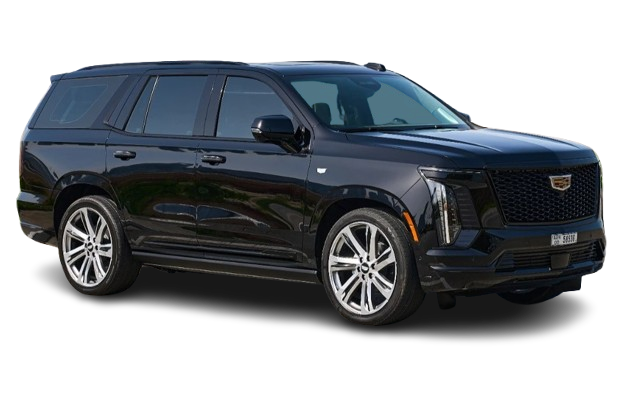
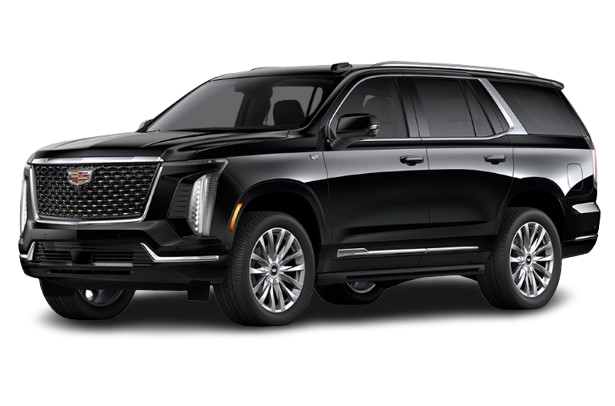
latest

diff --git a/src/app/fleet/page.tsx b/src/app/fleet/page.tsx
@@ -31,23 +31,54 @@ export default function FleetPage() {
       <TopNav />
       <Navbar />
 
-      <section className="pt-[130px] md:pt-[145px]">
-        <div className="max-w-[1300px] mx-auto px-6 sm:px-8 md:px-12 py-12 sm:py-16 md:py-20">
-          <div className="text-center mb-14 sm:mb-16">
-            <div className="inline-flex items-center gap-2.5 px-6 py-3 rounded-full bg-white border border-[#C9A063]/30 shadow-lg shadow-[#C9A063]/10 mb-6">
-              <div className="w-2 h-2 rounded-full bg-gradient-to-r from-[#C9A063] to-[#B8935A] animate-pulse" />
-              <span className="text-gray-800 text-[13px] sm:text-[14px] font-bold tracking-[0.2em] uppercase">
-                Our Fleet
-              </span>
-            </div>
-            <h1 className="text-3xl sm:text-4xl md:text-5xl font-bold text-gray-900 tracking-tight mb-4">
-              Curated Luxury Vehicles
-            </h1>
-            <p className="text-gray-600 text-[15px] sm:text-[17px] max-w-2xl mx-auto leading-relaxed font-light">
-              From executive sedans to premium SUVs and vans—each vehicle is maintained to the
-              highest standards and ready to elevate your journey.
-            </p>
+      {/* Hero Section */}
+      <section className="relative pt-[160px] md:pt-[180px] pb-8 sm:pb-12 md:pb-16 bg-gradient-to-br from-gray-900 via-gray-800 to-black overflow-hidden">
+        {/* Background Pattern */}
+        <div className="absolute inset-0 bg-[radial-gradient(circle_at_50%_50%,rgba(201,160,99,0.1)_0%,transparent_50%)]" />
+        <div className="absolute inset-0 bg-[linear-gradient(45deg,transparent_25%,rgba(255,255,255,0.02)_25%,rgba(255,255,255,0.02)_50%,transparent_50%,transparent_75%,rgba(255,255,255,0.02)_75%)] bg-[length:60px_60px]" />
+        
+        <div className="relative max-w-7xl mx-auto px-6 sm:px-8 md:px-12 text-center">
+          {/* Badge */}
+          <div className="inline-flex items-center gap-2.5 px-6 py-3 rounded-full bg-white/10 backdrop-blur-sm border border-[#C9A063]/30 shadow-lg mb-8">
+            <div className="w-2 h-2 rounded-full bg-gradient-to-r from-[#C9A063] to-[#B8935A] animate-pulse" />
+            <span className="text-[#C9A063] text-[13px] sm:text-[14px] font-bold tracking-[0.2em] uppercase">
+              Our Collection
+            </span>
           </div>
+
+          {/* Main Headlines */}
+          <h1 className="text-2xl sm:text-3xl md:text-4xl lg:text-5xl font-bold text-white tracking-tight mb-6">
+            Curated Luxury Vehicles
+          </h1>
+
+          {/* Description */}
+          <p className="text-gray-300 text-sm sm:text-base md:text-lg max-w-4xl mx-auto leading-relaxed font-light mb-10">
+            From executive sedans to premium SUVs and vans—each vehicle is maintained to the
+            highest standards and ready to elevate your journey.
+          </p>
+
+
+          {/* CTA Buttons */}
+          <div className="flex flex-wrap items-center justify-center gap-4 sm:gap-6">
+            <Link
+              href="/reservation"
+              className="group inline-flex items-center justify-center gap-3 px-8 sm:px-10 py-4 sm:py-5 rounded-full bg-gradient-to-r from-[#C9A063] to-[#B8935A] text-white font-semibold text-base sm:text-lg shadow-lg shadow-[#C9A063]/30 hover:shadow-xl hover:shadow-[#C9A063]/40 hover:scale-105 active:scale-95 transition-all duration-300"
+            >
+              Reserve Your Ride
+              <ArrowRight className="w-5 h-5 group-hover:translate-x-1 transition-transform duration-300" strokeWidth={2.5} />
+            </Link>
+          </div>
+        </div>
+
+        {/* Decorative Elements */}
+        <div className="absolute top-1/4 left-10 w-2 h-2 bg-[#C9A063] rounded-full animate-pulse opacity-60" />
+        <div className="absolute top-1/3 right-16 w-1 h-1 bg-white rounded-full animate-pulse delay-300" />
+        <div className="absolute bottom-1/4 left-1/4 w-1.5 h-1.5 bg-[#C9A063] rounded-full animate-pulse delay-700" />
+      </section>
+
+      {/* Fleet Gallery Section */}
+      <section id="fleet-gallery" className="py-16 sm:py-20 md:py-24 bg-gradient-to-b from-gray-50 to-white">
+        <div className="max-w-[1300px] mx-auto px-6 sm:px-8 md:px-12">
 
           <div className="grid grid-cols-1 sm:grid-cols-2 lg:grid-cols-3 gap-6 sm:gap-8">
             {fleetData.map((vehicle) => (

diff --git a/src/app/services/page.tsx b/src/app/services/page.tsx
@@ -59,30 +59,53 @@ export default function ServicesIndexPage() {
       <TopNav />
       <Navbar />
 
-      {/* Hero */}
-      <section className="pt-[155px] md:pt-[175px] relative overflow-hidden">
-        <div className="absolute inset-0 bg-gradient-to-b from-white/80 via-transparent to-transparent" />
-        <div className="max-w-[1000px] mx-auto px-6 sm:px-8 md:px-12 py-16 sm:py-20 md:py-24 relative z-10">
-          <div className="text-center">
-            <p className="text-[#C9A063] text-[12px] sm:text-[13px] font-semibold tracking-[0.2em] uppercase mb-3">
-              What we offer
-            </p>
-            <h1 className="text-3xl sm:text-4xl md:text-5xl font-bold text-gray-900 tracking-tight mb-4">
-              Our Services
-            </h1>
-            <p className="text-gray-600 text-[15px] sm:text-[16px] max-w-xl mx-auto leading-relaxed">
-              From airport transfers to corporate travel, weddings, and VIP transport—every journey is crafted with elegance and reliability.
-            </p>
+      {/* Hero Section */}
+      <section className="relative pt-[160px] md:pt-[180px] pb-8 sm:pb-12 md:pb-16 bg-gradient-to-br from-gray-900 via-gray-800 to-black overflow-hidden">
+        {/* Background Pattern */}
+        <div className="absolute inset-0 bg-[radial-gradient(circle_at_50%_50%,rgba(201,160,99,0.1)_0%,transparent_50%)]" />
+        <div className="absolute inset-0 bg-[linear-gradient(45deg,transparent_25%,rgba(255,255,255,0.02)_25%,rgba(255,255,255,0.02)_50%,transparent_50%,transparent_75%,rgba(255,255,255,0.02)_75%)] bg-[length:60px_60px]" />
+        
+        <div className="relative max-w-7xl mx-auto px-6 sm:px-8 md:px-12 text-center">
+          {/* Badge */}
+          <div className="inline-flex items-center gap-2.5 px-6 py-3 rounded-full bg-white/10 backdrop-blur-sm border border-[#C9A063]/30 shadow-lg mb-8">
+            <div className="w-2 h-2 rounded-full bg-gradient-to-r from-[#C9A063] to-[#B8935A] animate-pulse" />
+            <span className="text-[#C9A063] text-[13px] sm:text-[14px] font-bold tracking-[0.2em] uppercase">
+              What We Offer
+            </span>
+          </div>
+
+          {/* Main Headlines */}
+          <h1 className="text-2xl sm:text-3xl md:text-4xl lg:text-5xl font-bold text-white tracking-tight mb-6">
+            Our Services
+          </h1>
+
+          {/* Description */}
+          <p className="text-gray-300 text-sm sm:text-base md:text-lg max-w-4xl mx-auto leading-relaxed font-light mb-10">
+            From airport transfers to corporate travel, weddings, and VIP transport—
+            every journey is crafted with elegance and reliability.
+          </p>
+
+          {/* CTA Buttons */}
+          <div className="flex flex-wrap items-center justify-center gap-4 sm:gap-6">
+            <Link
+              href="/reservation"
+              className="group inline-flex items-center justify-center gap-3 px-8 sm:px-10 py-4 sm:py-5 rounded-full bg-gradient-to-r from-[#C9A063] to-[#B8935A] text-white font-semibold text-base sm:text-lg shadow-lg shadow-[#C9A063]/30 hover:shadow-xl hover:shadow-[#C9A063]/40 hover:scale-105 active:scale-95 transition-all duration-300"
+            >
+              Reserve Your Ride
+              <ArrowRight className="w-5 h-5 group-hover:translate-x-1 transition-transform duration-300" strokeWidth={2.5} />
+            </Link>
           </div>
         </div>
+
+        {/* Decorative Elements */}
+        <div className="absolute top-1/4 left-10 w-2 h-2 bg-[#C9A063] rounded-full animate-pulse opacity-60" />
+        <div className="absolute top-1/3 right-16 w-1 h-1 bg-white rounded-full animate-pulse delay-300" />
+        <div className="absolute bottom-1/4 left-1/4 w-1.5 h-1.5 bg-[#C9A063] rounded-full animate-pulse delay-700" />
       </section>
 
       {/* Services grid */}
-      <section className="relative pb-16 sm:pb-20 md:pb-24">
+      <section className="relative pt-16 sm:pt-20 md:pt-24 pb-16 sm:pb-20 md:pb-24">
         <div className="max-w-[1100px] mx-auto px-6 sm:px-8 md:px-12">
-          <p className="text-center text-gray-500 text-[14px] sm:text-[15px] mb-12 max-w-lg mx-auto">
-            Select a service to view full details, features, and how to book.
-          </p>
           <div className="grid grid-cols-1 sm:grid-cols-2 lg:grid-cols-3 gap-5 sm:gap-6">
             {visibleServices.map((service) => {
               const Icon = iconMap[service.icon];

diff --git a/src/components/GlobalFootprint.tsx b/src/components/GlobalFootprint.tsx
@@ -6,14 +6,14 @@ import { Wifi, MapPin } from "lucide-react";
 const GlobalFootprint = () => {
   // Spread-out points with city names (akhatay removed – only these on map)
   const cities = [
-    { name: "Toronto Pearson", left: "80%", top: "26%" },
-    { name: "Hamilton", left: "68%", top: "26%" },
     { name: "London", left: "21%", top: "51%" },
-    { name: "Ottawa", left: "62%", top: "48%" },
+    { name: "Hamilton", left: "58%", top: "44%" },
+    { name: "Greater Toronto Area", left: "62%", top: "48%" },
+    { name: "Toronto Pearson", left: "68%", top: "26%" },
+    { name: "Niagara/Buffalo", left: "74%", top: "58%" },
+    { name: "Ottawa", left: "75%", top: "65%" },
+    { name: "Ottawa/Montreal", left: "80%", top: "26%" },
     { name: "Montreal", left: "86%", top: "68%" },
-    { name: "Niagara/Buffalo", left: "75%", top: "65%" },
-    { name: "Ottawa/Montreal", left: "58%", top: "44%" },
-    { name: "Greater Toronto Area", left: "74%", top: "58%" },
   ];
 
   return (
@@ -161,25 +161,25 @@ const GlobalFootprint = () => {
               </filter>
             </defs>
             {/* Lines connecting spread-out city points */}
-            <line x1="80%" y1="26%" x2="68%" y2="26%" stroke="url(#lineGradient)" strokeWidth="2.5" filter="url(#glow)" strokeDasharray="5,5">
+            <line x1="21%" y1="51%" x2="58%" y2="44%" stroke="url(#lineGradient)" strokeWidth="2.5" filter="url(#glow)" strokeDasharray="5,5">
               <animate attributeName="stroke-dashoffset" from="0" to="10" dur="1s" repeatCount="indefinite"/>
             </line>
-            <line x1="68%" y1="26%" x2="62%" y2="48%" stroke="url(#lineGradient)" strokeWidth="2.5" filter="url(#glow)" strokeDasharray="5,5">
+            <line x1="58%" y1="44%" x2="62%" y2="48%" stroke="url(#lineGradient)" strokeWidth="2.5" filter="url(#glow)" strokeDasharray="5,5">
               <animate attributeName="stroke-dashoffset" from="0" to="10" dur="1s" repeatCount="indefinite"/>
             </line>
-            <line x1="62%" y1="48%" x2="21%" y2="51%" stroke="url(#lineGradient)" strokeWidth="2.5" filter="url(#glow)" strokeDasharray="5,5">
+            <line x1="62%" y1="48%" x2="68%" y2="26%" stroke="url(#lineGradient)" strokeWidth="2.5" filter="url(#glow)" strokeDasharray="5,5">
               <animate attributeName="stroke-dashoffset" from="0" to="10" dur="1s" repeatCount="indefinite"/>
             </line>
-            <line x1="21%" y1="51%" x2="74%" y2="58%" stroke="url(#lineGradient)" strokeWidth="2.5" filter="url(#glow)" strokeDasharray="5,5">
+            <line x1="68%" y1="26%" x2="74%" y2="58%" stroke="url(#lineGradient)" strokeWidth="2.5" filter="url(#glow)" strokeDasharray="5,5">
               <animate attributeName="stroke-dashoffset" from="0" to="10" dur="1s" repeatCount="indefinite"/>
             </line>
-            <line x1="62%" y1="48%" x2="75%" y2="65%" stroke="url(#lineGradient)" strokeWidth="2.5" filter="url(#glow)" strokeDasharray="5,5">
+            <line x1="74%" y1="58%" x2="75%" y2="65%" stroke="url(#lineGradient)" strokeWidth="2.5" filter="url(#glow)" strokeDasharray="5,5">
               <animate attributeName="stroke-dashoffset" from="0" to="10" dur="1s" repeatCount="indefinite"/>
             </line>
-            <line x1="75%" y1="65%" x2="86%" y2="68%" stroke="url(#lineGradient)" strokeWidth="2.5" filter="url(#glow)" strokeDasharray="5,5">
+            <line x1="75%" y1="65%" x2="80%" y2="26%" stroke="url(#lineGradient)" strokeWidth="2.5" filter="url(#glow)" strokeDasharray="5,5">
               <animate attributeName="stroke-dashoffset" from="0" to="10" dur="1s" repeatCount="indefinite"/>
             </line>
-            <line x1="80%" y1="26%" x2="62%" y2="48%" stroke="url(#lineGradient)" strokeWidth="2.5" filter="url(#glow)" strokeDasharray="5,5">
+            <line x1="80%" y1="26%" x2="86%" y2="68%" stroke="url(#lineGradient)" strokeWidth="2.5" filter="url(#glow)" strokeDasharray="5,5">
               <animate attributeName="stroke-dashoffset" from="0" to="10" dur="1s" repeatCount="indefinite"/>
             </line>
           </svg>

diff --git a/src/components/TopNav.tsx b/src/components/TopNav.tsx
@@ -19,27 +19,21 @@ const TopNav = () => {
              */}
             {/* <div className="hidden sm:block w-px h-4 bg-white/20"></div> */}
             
-            <a 
-              href="tel:[phone redacted]" 
-              className="hidden sm:flex items-center gap-2 text-white/90 hover:text-[#C9A063] transition-all duration-300 group"
-            >
+            <span className="hidden sm:flex items-center gap-2 text-white/90 group">
               {/* <div className="w-7 h-7 rounded-full bg-white/10 group-hover:bg-[#C9A063]/20 border border-white/10 group-hover:border-[#C9A063]/30 flex items-center justify-center transition-all duration-300 backdrop-blur-sm">
                 <Phone className="w-3.5 h-3.5" strokeWidth={2} />
               </div> */}
               {/* <span className="text-[25px] font-light tracking-wide">[phone redacted]</span> */}
-            </a>
+            </span>
           </div>
 
           <div className="flex items-center justify-center sm:justify-end gap-4">
             <div className="hidden sm:block w-px h-4 bg-white/20"></div>
             
-            <a 
-              href="tel:[phone redacted]" 
-              className="flex items-center gap-2 text-white/90 hover:text-[#C9A063] transition-all duration-300 group"
-            >
+            <span className="flex items-center gap-2 text-white/90 group">
               <Phone className="w-4 h-4 sm:w-3.5 sm:h-3.5 flex-shrink-0" strokeWidth={2} />
               <span className="text-[25px] sm:text-[25px] font-light tracking-wide"> 416-893-5779</span>
-            </a>
+            </span>
 
 
             {/* <div className="flex items-center gap-2">

diff --git a/src/app/track/[id]/page.tsx b/src/app/track/[id]/page.tsx
@@ -156,10 +156,10 @@ export default function TrackPage() {
                   </div>
                   <div className="flex-1 min-w-0">
                     <p className="text-white font-semibold">{booking.chauffeurName}</p>
-                    <a href={`tel:${booking.chauffeurPhone}`} className="text-[#C9A063] text-sm hover:underline flex items-center gap-1.5 mt-0.5">
+                    <span className="text-[#C9A063] text-sm flex items-center gap-1.5 mt-0.5">
                       <Phone className="w-3 h-3" />
                       {booking.chauffeurPhone}
-                    </a>
+                    </span>
                     <div className="flex flex-wrap items-center gap-2 sm:gap-3 mt-1.5 text-gray-300 text-xs sm:text-sm">
                       <span className="flex items-center gap-1.5">
                         <Car className="w-3.5 h-3.5 sm:w-4 sm:h-4 text-[#C9A063]" />
@@ -267,13 +267,10 @@ export default function TrackPage() {
         {/* Contact */}
         <div className="text-center pb-8 sm:pb-10">
           <p className="text-gray-500 text-xs mb-3">Need assistance?</p>
-          <a
-            href="tel:[phone redacted]"
-            className="inline-flex items-center gap-2 px-5 py-2.5 bg-[#C9A063]/10 border border-[#C9A063]/30 rounded-full text-[#C9A063] text-sm font-medium hover:bg-[#C9A063]/20 transition-all"
-          >
+          <span className="inline-flex items-center gap-2 px-5 py-2.5 bg-[#C9A063]/10 border border-[#C9A063]/30 rounded-full text-[#C9A063] text-sm font-medium">
             <Phone className="w-4 h-4" />
             416-893-5779
-          </a>
+          </span>
           <p className="text-gray-600 text-xs mt-6">
             SARJ Worldwide Chauffeur Services
           </p>

diff --git a/src/components/FloatingContact.tsx b/src/components/FloatingContact.tsx
@@ -1,7 +1,7 @@
 "use client";
 
 import { useState } from "react";
-import { MessageCircle, Phone } from "lucide-react";
+import { MessageCircle, Phone, Mail } from "lucide-react";
 
 const PHONE_NUMBER = "4168935779";
 const PHONE_DISPLAY = "416-893-5779";
@@ -41,6 +41,13 @@ export default function FloatingContact() {
           aria-label={`Call ${PHONE_DISPLAY}`}
         >
           <Phone className="w-6 h-6" strokeWidth={2.5} />
+        </a>
+        <a
+          href="mailto:[email redacted]"
+          className="group flex items-center justify-center w-14 h-14 rounded-full bg-blue-600 text-white shadow-lg shadow-blue-600/40 hover:shadow-xl hover:shadow-blue-600/50 hover:scale-110 active:scale-95 transition-all duration-200"
+          aria-label="Send email to [email redacted]"
+        >
+          <Mail className="w-6 h-6" strokeWidth={2.5} />
         </a>
       </div>
 

diff --git a/src/components/ContactInfo.tsx b/src/components/ContactInfo.tsx
@@ -30,12 +30,9 @@ const ContactInfo = () => {
                 <h3 className="text-white text-[16px] sm:text-[18px] font-semibold mb-2 tracking-wide">
                   Phone Number
                 </h3>
-                <a 
-                  href="tel:[phone redacted]" 
-                  className="text-gray-300 text-[14px] sm:text-[15px] font-light hover:text-[#C9A063] transition-colors duration-300"
-                >
+                <span className="text-gray-300 text-[14px] sm:text-[15px] font-light">
                   416-893-5779
-                </a>
+                </span>
               </div>
             </div>
 

diff --git a/src/app/api/quote/route.ts b/src/app/api/quote/route.ts
@@ -69,7 +69,7 @@ export async function POST(request: NextRequest) {
             <tr><td style="padding:10px 0;color:#666;font-size:14px;width:140px;">Name:</td><td style="padding:10px 0;color:#1C1C1E;font-size:14px;font-weight:600;">${passengerName}</td></tr>
             <tr><td style="padding:10px 0;color:#666;font-size:14px;">Passengers:</td><td style="padding:10px 0;color:#1C1C1E;font-size:14px;font-weight:600;">${passengers}</td></tr>
             <tr><td style="padding:10px 0;color:#666;font-size:14px;">Email:</td><td style="padding:10px 0;color:#1C1C1E;font-size:14px;font-weight:600;"><a href="mailto:${email}" style="color:#C9A063;">${email}</a></td></tr>
-            <tr><td style="padding:10px 0;color:#666;font-size:14px;">Phone:</td><td style="padding:10px 0;color:#1C1C1E;font-size:14px;font-weight:600;"><a href="tel:${fullPhone}" style="color:#C9A063;">${fullPhone}</a></td></tr>
+            <tr><td style="padding:10px 0;color:#666;font-size:14px;">Phone:</td><td style="padding:10px 0;color:#1C1C1E;font-size:14px;font-weight:600;"><span style="color:#C9A063;">${fullPhone}</span></td></tr>
           </table>
         </div>
         <div style="background:#f8f9fa;border-radius:12px;padding:20px;margin-bottom:20px;">
@@ -109,13 +109,13 @@ export async function POST(request: NextRequest) {
           ${stopsUser}
           <p style="color:#666;font-size:14px;margin:5px 0;"><strong>Drop-off:</strong> ${dropoffLocation}</p>
         </div>
-        <p style="color:#444;font-size:15px;line-height:1.8;margin:20px 0;">For urgent inquiries, call us at <a href="tel:[phone redacted]" style="color:#C9A063;font-weight:600;">[phone redacted]</a>.</p>
+        <p style="color:#444;font-size:15px;line-height:1.8;margin:20px 0;">For urgent inquiries, call us at <span style="color:#C9A063;font-weight:600;">[phone redacted]</span>.</p>
         <p style="color:#444;font-size:15px;line-height:1.8;margin:20px 0 0;">Best regards,<br><strong style="color:#C9A063;">SARJ WORLDWIDE</strong><br><span style="color:#888;font-size:13px;">Luxury Chauffeur Service</span></p>
       </div>
       <div style="background:#1C1C1E;padding:25px 30px;text-align:center;">
         <p style="color:#C9A063;font-size:14px;font-weight:600;margin:0 0 10px;">SARJ WORLDWIDE</p>
         <p style="color:#888;font-size:12px;margin:0;">231 Oak Park Blvd, Oakville, ON L6H 7S8</p>
-        <p style="color:#888;font-size:12px;margin:5px 0 0;"><a href="tel:[phone redacted]" style="color:#888;">[phone redacted]</a> | <span style="color:#888;">[email redacted]</span></p>
+        <p style="color:#888;font-size:12px;margin:5px 0 0;"><span style="color:#888;">416-893-5779</span> | <span style="color:#888;">[email redacted]</span></p>
       </div>
     </div></body></html>`;
 

diff --git a/src/app/api/reservation/route.ts b/src/app/api/reservation/route.ts
@@ -166,7 +166,7 @@ export async function POST(request: NextRequest) {
             <tr><td style="padding:10px 0;color:#666;font-size:14px;">Passengers:</td><td style="padding:10px 0;color:#1C1C1E;font-size:14px;font-weight:600;">${passengers}</td></tr>
             ${childSeatCount > 0 ? `<tr><td style="padding:10px 0;color:#666;font-size:14px;">Child Seats:</td><td style="padding:10px 0;color:#1C1C1E;font-size:14px;font-weight:600;">${childSeatCount}${childSeatType ? ` (${childSeatType})` : ""}</td></tr>` : ""}
             <tr><td style="padding:10px 0;color:#666;font-size:14px;">Email:</td><td style="padding:10px 0;color:#1C1C1E;font-size:14px;font-weight:600;"><a href="mailto:${email}" style="color:#C9A063;">${email}</a></td></tr>
-            <tr><td style="padding:10px 0;color:#666;font-size:14px;">Phone:</td><td style="padding:10px 0;color:#1C1C1E;font-size:14px;font-weight:600;"><a href="tel:${fullPhone}" style="color:#C9A063;">${fullPhone}</a></td></tr>
+            <tr><td style="padding:10px 0;color:#666;font-size:14px;">Phone:</td><td style="padding:10px 0;color:#1C1C1E;font-size:14px;font-weight:600;"><span style="color:#C9A063;">${fullPhone}</span></td></tr>
           </table>
         </div>
         <div style="background:#f8f9fa;border-radius:12px;padding:20px;margin-bottom:20px;">
@@ -257,13 +257,13 @@ export async function POST(request: NextRequest) {
             <tr style="border-top:2px solid #C9A063;"><td style="padding:10px 0;color:#1C1C1E;font-size:15px;font-weight:700;">Total:</td><td style="padding:10px 0;color:#C9A063;font-size:16px;font-weight:700;text-align:right;">${priceDisplay}</td></tr>
           </table>
         </div>
-        <p style="color:#444;font-size:15px;line-height:1.8;margin:20px 0;">For urgent inquiries, call us at <a href="tel:[phone redacted]" style="color:#C9A063;font-weight:600;">[phone redacted]</a>.</p>
+        <p style="color:#444;font-size:15px;line-height:1.8;margin:20px 0;">For urgent inquiries, call us at <span style="color:#C9A063;font-weight:600;">[phone redacted]</span>.</p>
         <p style="color:#444;font-size:15px;line-height:1.8;margin:20px 0 0;">Best regards,<br><strong style="color:#C9A063;">SARJ WORLDWIDE</strong><br><span style="color:#888;font-size:13px;">Luxury Chauffeur Service</span></p>
       </div>
       <div style="background:#1C1C1E;padding:25px 30px;text-align:center;">
         <p style="color:#C9A063;font-size:14px;font-weight:600;margin:0 0 10px;">SARJ WORLDWIDE</p>
         <p style="color:#888;font-size:12px;margin:0;">231 Oak Park Blvd, Oakville, ON L6H 7S8</p>
-        <p style="color:#888;font-size:12px;margin:5px 0 0;"><a href="tel:[phone redacted]" style="color:#888;">[phone redacted]</a> | <span style="color:#888;">[email redacted]</span></p>
+        <p style="color:#888;font-size:12px;margin:5px 0 0;"><span style="color:#888;">416-893-5779</span> | <span style="color:#888;">[email redacted]</span></p>
       </div>
     </div></body></html>`;
 

diff --git a/src/app/contact/page.tsx b/src/app/contact/page.tsx
@@ -27,7 +27,7 @@ const contactCards = [
     icon: Phone,
     title: "Call us",
     value: "416-893-5779",
-    href: "tel:[phone redacted]",
+    href: "#",
     sub: "24/7 available",
   },
   {
@@ -47,7 +47,7 @@ const contactCards = [
   {
     icon: Clock,
     title: "Business hours",
-    value: "24/7 concierge & support",
+    value: "Best concierge & support",
     sub: "Bookings, changes & enquiries",
   },
 ];

diff --git a/src/app/driver/[id]/page.tsx b/src/app/driver/[id]/page.tsx
@@ -200,10 +200,10 @@ export default function DriverPage() {
               <div className="space-y-2">
                 <p className="text-white font-semibold text-base sm:text-lg">{booking.firstName} {booking.lastName}</p>
                 {booking.phone && (
-                  <a href={`tel:${booking.phone}`} className="inline-flex items-center gap-2 text-[#C9A063] hover:underline text-sm">
+                  <span className="inline-flex items-center gap-2 text-[#C9A063] text-sm">
                     <Phone className="w-4 h-4" />
                     {booking.phone}
-                  </a>
+                  </span>
                 )}
               </div>
             </div>

diff --git a/src/app/terms-of-service/page.tsx b/src/app/terms-of-service/page.tsx
@@ -196,7 +196,7 @@ export default function TermsOfServicePage() {
                 If a passenger cannot locate the vehicle, they must contact SARJ Worldwide Dispatch:
               </p>
               <ul className="list-disc list-inside text-gray-600 text-[15px] leading-relaxed space-y-1.5 ml-4 mb-3">
-                <li>Phone: <a href="tel:[phone redacted]" className="text-[#C9A063] hover:underline">[phone redacted]</a></li>
+                <li>Phone: <span className="text-[#C9A063]">[phone redacted]</span></li>
                 <li>Text: <a href="sms:[phone redacted]" className="text-[#C9A063] hover:underline">[phone redacted]</a></li>
                 <li>Email: <span className="text-[#C9A063]">[email redacted]</span></li>
               </ul>
@@ -397,7 +397,7 @@ export default function TermsOfServicePage() {
               </p>
               <div className="space-y-2 text-[15px]">
                 <p className="text-gray-700"><strong>SARJ Worldwide Chauffeured Services Inc.</strong></p>
-                <p className="text-gray-600">Phone: <a href="tel:[phone redacted]" className="text-[#C9A063] hover:underline">[phone redacted]</a></p>
+                <p className="text-gray-600">Phone: <span className="text-[#C9A063]">[phone redacted]</span></p>
                 <p className="text-gray-600">Text: <a href="sms:[phone redacted]" className="text-[#C9A063] hover:underline">[phone redacted]</a></p>
                 <p className="text-gray-600">Email: <span className="text-[#C9A063]">[email redacted]</span></p>
               </div>